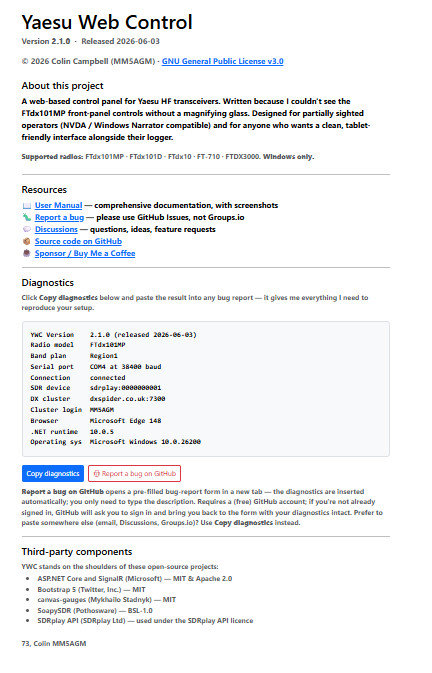
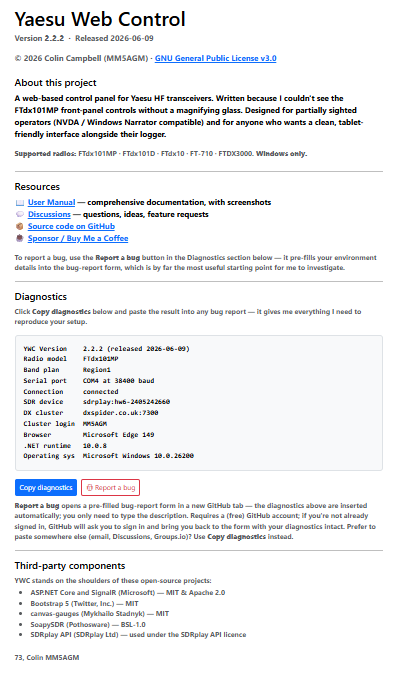
Docs: memory screenshots part 2 — Settings sections + refreshed About page
Adds four new Settings-page screenshots wired into the manual:
- Settings_Network_Config.png — §6 intro (Network Access URLs +
  Current Configuration cards at the top of Settings)
- Settings_Restart_Required.png — new §6 subsection 'Changes that
  need a full app restart' (yellow banner + Restart Now button)
- Settings_SDR_Warning.png — §6.3 (red FTdx10/FT-710 danger banner
  + yellow IF-output notice)
- Settings_Test_Cluster.png — §6.6 (modal in success state with
  the green 'Cluster connection successful' button visible)

Refreshes AboutPage.png to the v2.2.2 layout (single consolidated
Report a bug button, 4-item Resources list, current diagnostics
block). Caption updated to match.

Changed region(s): [[0.0312, 0.0, 0.9041, 0.9673]]

diff --git a/USER_MANUAL.md b/USER_MANUAL.md
@@ -736,6 +736,18 @@ Click the **DX Spots** button on the toolbar to open a list of DX cluster spots 
 
 Access Settings from the navigation bar or by clicking the settings icon. Changes take effect only after clicking **Save Settings**.
 
+At the top of the page, the **Network Access URLs** card lists the addresses you can use to reach YWC from this PC and from other devices on the LAN; the **Current Configuration** card on the right shows a one-line summary of what YWC is using right now (radio model, serial port, baud rate, network interface, web port, SDR device). The web port shown here is whichever port YWC actually managed to bind — usually 8080 but possibly 8081–8089 if 8080 was already in use on your PC.
+
+![Top of the Settings page — Network Access URLs and Current Configuration cards](pictures/Settings_Network_Config.png)
+
+#### Changes that need a full app restart
+
+Most settings take effect the moment you click **Save Settings**. A few — radio model, network interface, and HTTP port — need a full YWC restart to apply cleanly because they affect how the app is bound to the operating system, or because they change what the server renders into the HTML of every open browser tab. When you change one of these, the Settings page shows a yellow **"Restart Yaesu Web Control to apply your changes"** banner above the rest of the page with a one-click **Restart Now** button:
+
+![Restart Required banner — appears above the rest of the page when a setting that needs a restart is changed; the Restart Now button stops and restarts YWC](pictures/Settings_Restart_Required.png)
+
+Clicking **Restart Now** stops YWC and (when running as the installed exe) automatically relaunches it. The browser briefly shows a "Yaesu Web Control has stopped" overlay during the restart; just reload the tab once YWC is back. When running from source via `dotnet run`, the auto-relaunch is skipped — you'll need to start `dotnet run` again manually.
+
 ### 6.1 Radio Connection
 
 | Setting | Description |
@@ -782,7 +794,9 @@ The spectrum display requires an SDR receiver. On the FTdx101MP, FTdx101D, and F
 >
 > **Always remember:** an antenna physically close to your TX antenna can still couple enough RF into the SDR to damage it, even if it's not directly connected. The further apart, the safer.
 >
-> YWC also displays this warning on the Settings page whenever you have an SDR configured, and a more prominent danger banner if your selected radio is an FTdx10 or FT-710 (since those users are obliged to connect to an antenna).
+> YWC also displays this warning on the Settings page whenever you have an SDR configured, and a more prominent danger banner if your selected radio is an FTdx10 or FT-710 (since those users are obliged to connect to an antenna):
+
+![SDR safety warnings on the Settings page when an FTdx10 is selected — the red banner appears only for FTdx10 and FT-710 (no IF tap); the yellow notice appears for all radios reminding the operator that the IF Frequency setting has no effect when connecting to an antenna](pictures/Settings_SDR_Warning.png)
 
 **Spectrum view depends on connection point:**
 - **IF output** (FTdx101 / FTDX3000) — VFO-centred panoramic view of the band you're tuned to, regardless of where on the band you tune. The IF Frequency setting tells YWC which IF the radio is using (9 MHz on FTdx101 series).
@@ -877,6 +891,8 @@ set/filter ...            # whatever spot filters you prefer
 The app uses a generous parser that accepts spot lines from AR-Cluster, CC-Cluster, and DXSpider format servers. The cluster connection sends the configured callsign 1.5 seconds after the TCP socket opens — this handles servers whose login prompt has no newline (which would otherwise cause our reader to hang silently).
 
 **Test cluster connection** *(v2.2.2 and later)* — a yellow **Test cluster connection** button appears below the Post-login commands textarea. Click it and the app opens a TCP connection to the host/port/callsign you've typed into the form (**without** saving them first), sends your callsign, reads about ten seconds of output, then shows the full transcript in a popup so you can see exactly what the cluster said back. Use it to verify a new cluster before committing to it, to confirm a working cluster is still up after a network change, or to diagnose a connection problem.
+
+![Successful Test cluster connection against dxspider.co.uk:7300 — the modal shows the full login transcript including the cluster's welcome banner, and the button below has turned solid green with the "Cluster connection successful" label](pictures/Settings_Test_Cluster.png)
 
 Outcomes:
 
@@ -1538,7 +1554,7 @@ The fastest way to get a bug fixed is a good report. YWC has three features that
 
 That gives the developer everything needed to reproduce your setup — including a callsign so I know who I'm talking to.
 
-![The About page — Diagnostics block plus the Copy diagnostics and Report a bug on GitHub buttons](pictures/AboutPage.png)
+![The About page — version + release date at top, Resources section, Diagnostics block with the user's environment summary, and the Copy diagnostics + Report a bug buttons that send everything straight into a GitHub bug-report form](pictures/AboutPage.png)
 
 **2. Report a bug on GitHub button** *(recommended)*. Right below the Diagnostics block. Clicking it opens a pre-filled bug-report form on GitHub in a new browser tab. The new tab takes a second or two to load while it negotiates with GitHub — be patient, don't keep clicking. Once it lands you'll see the form with the Diagnostics section already populated; you only need to type a description of what went wrong and, ideally, the steps to reproduce. Submit when ready.
 
